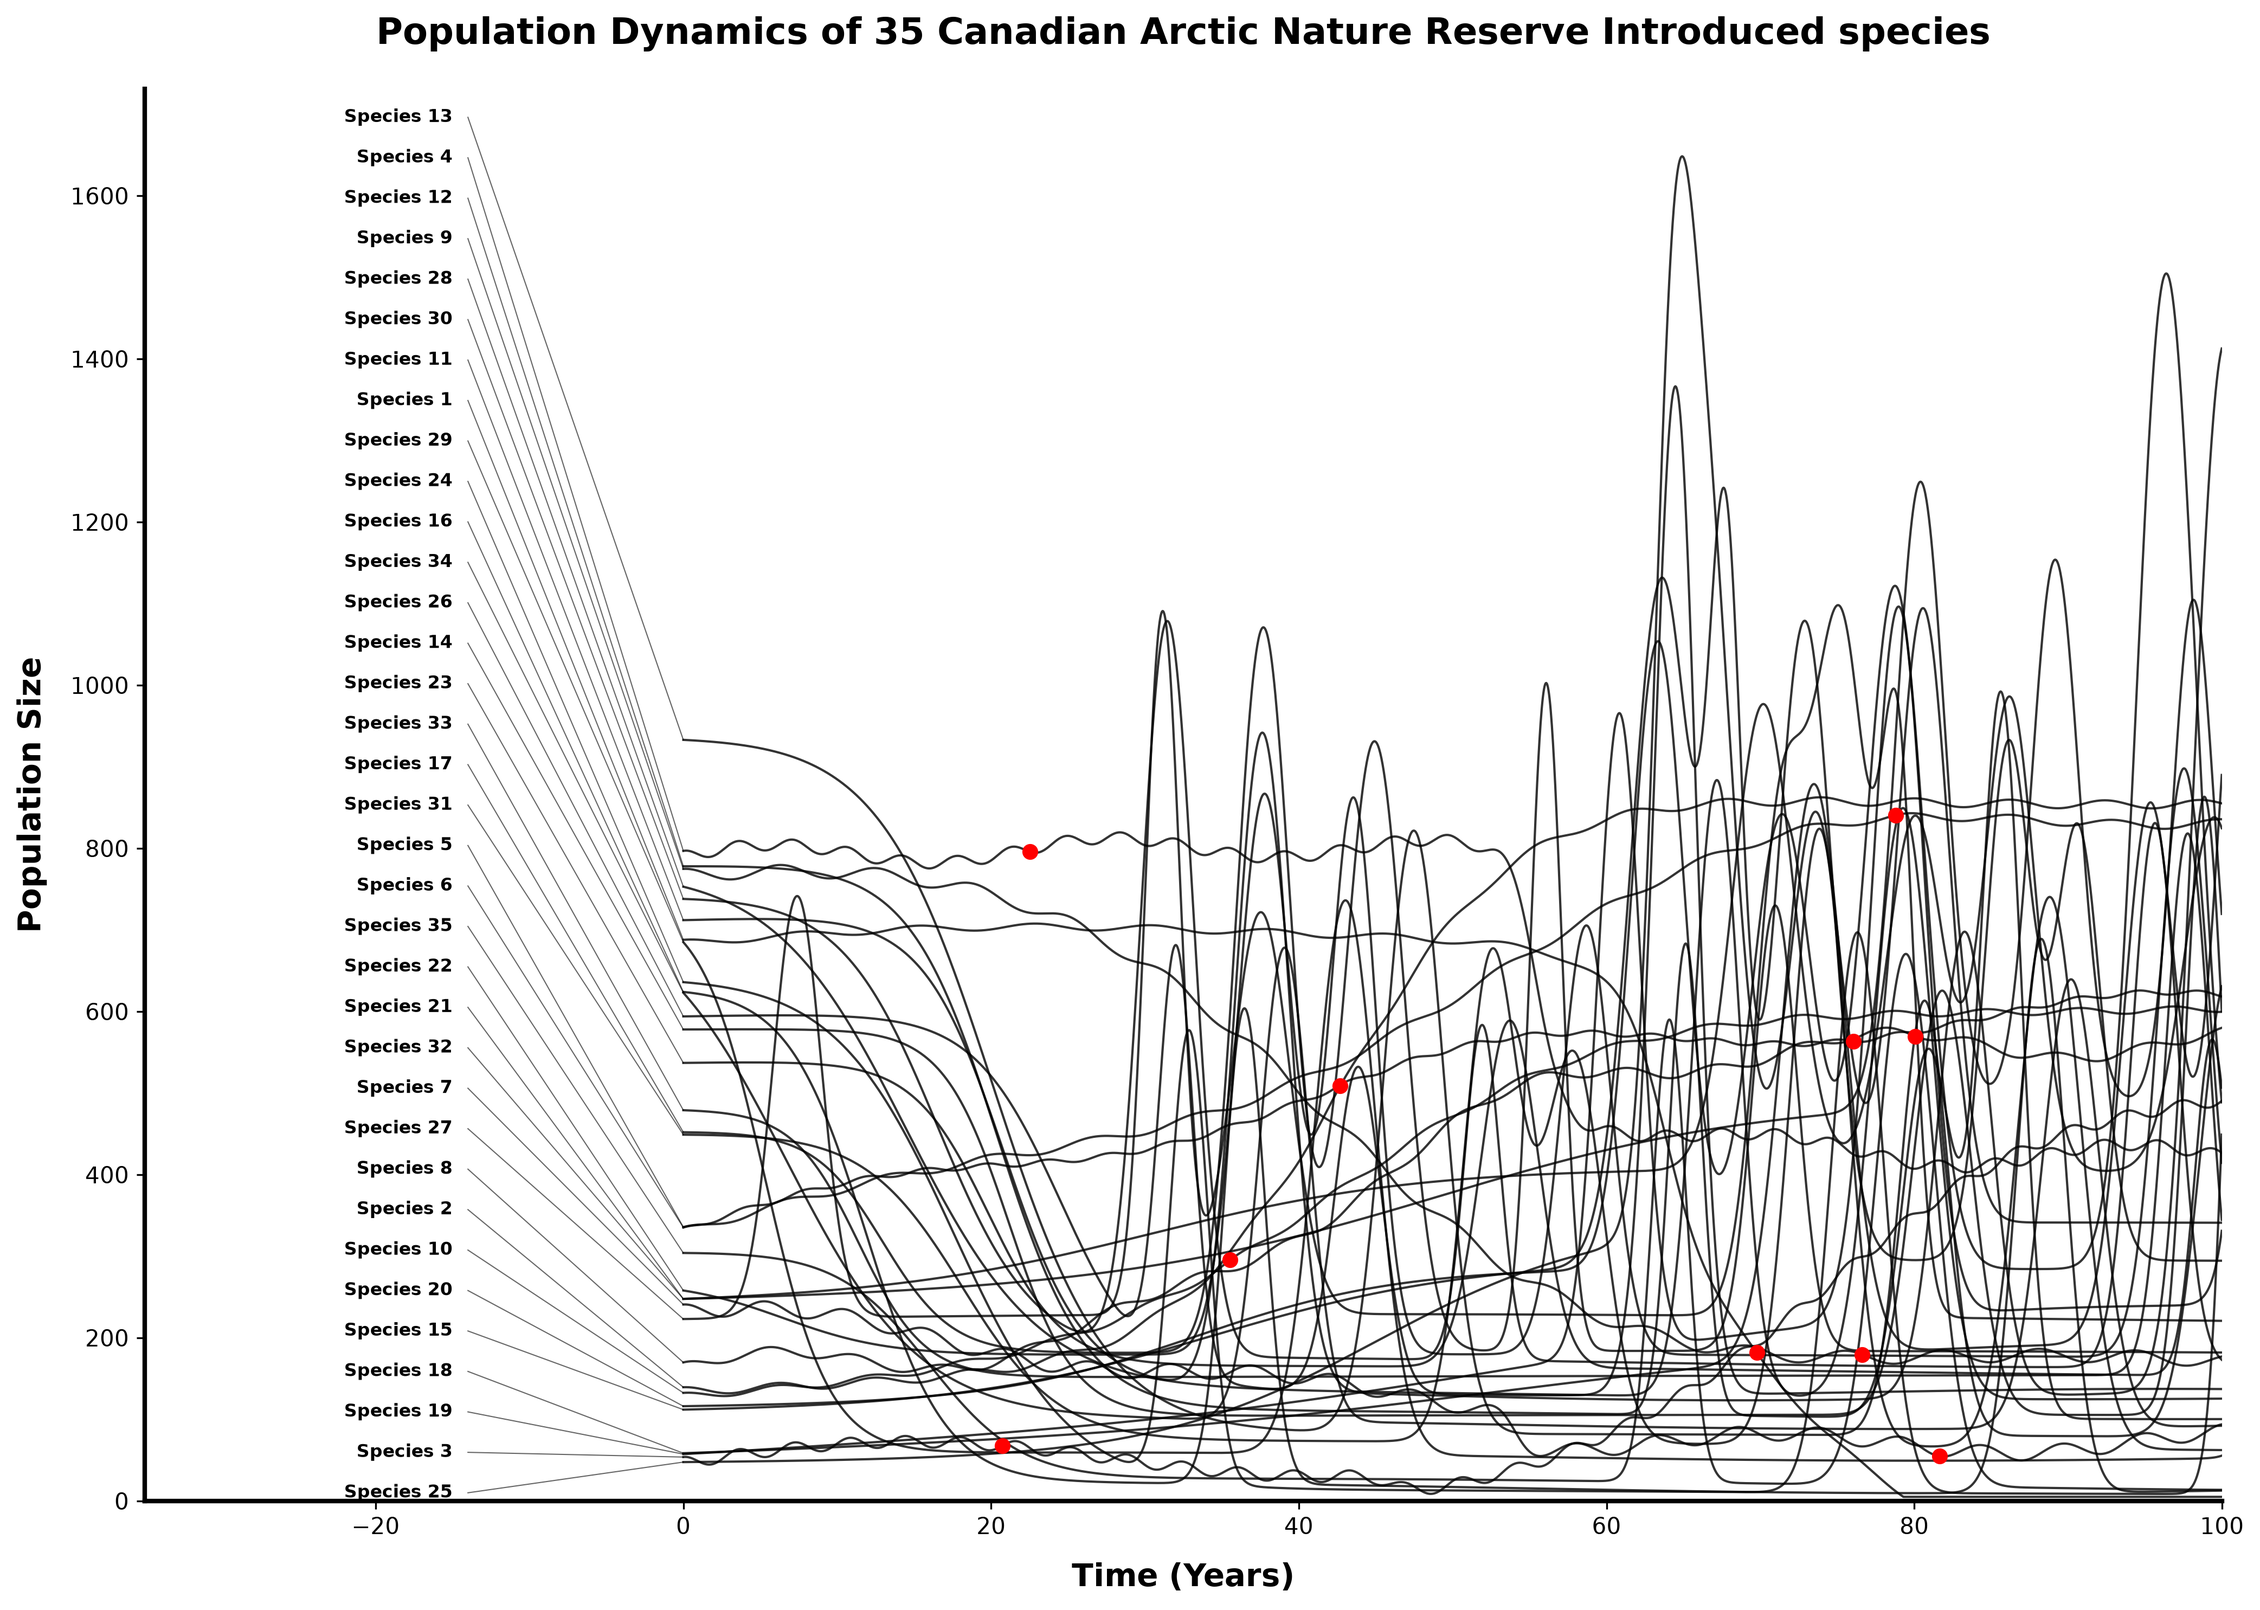
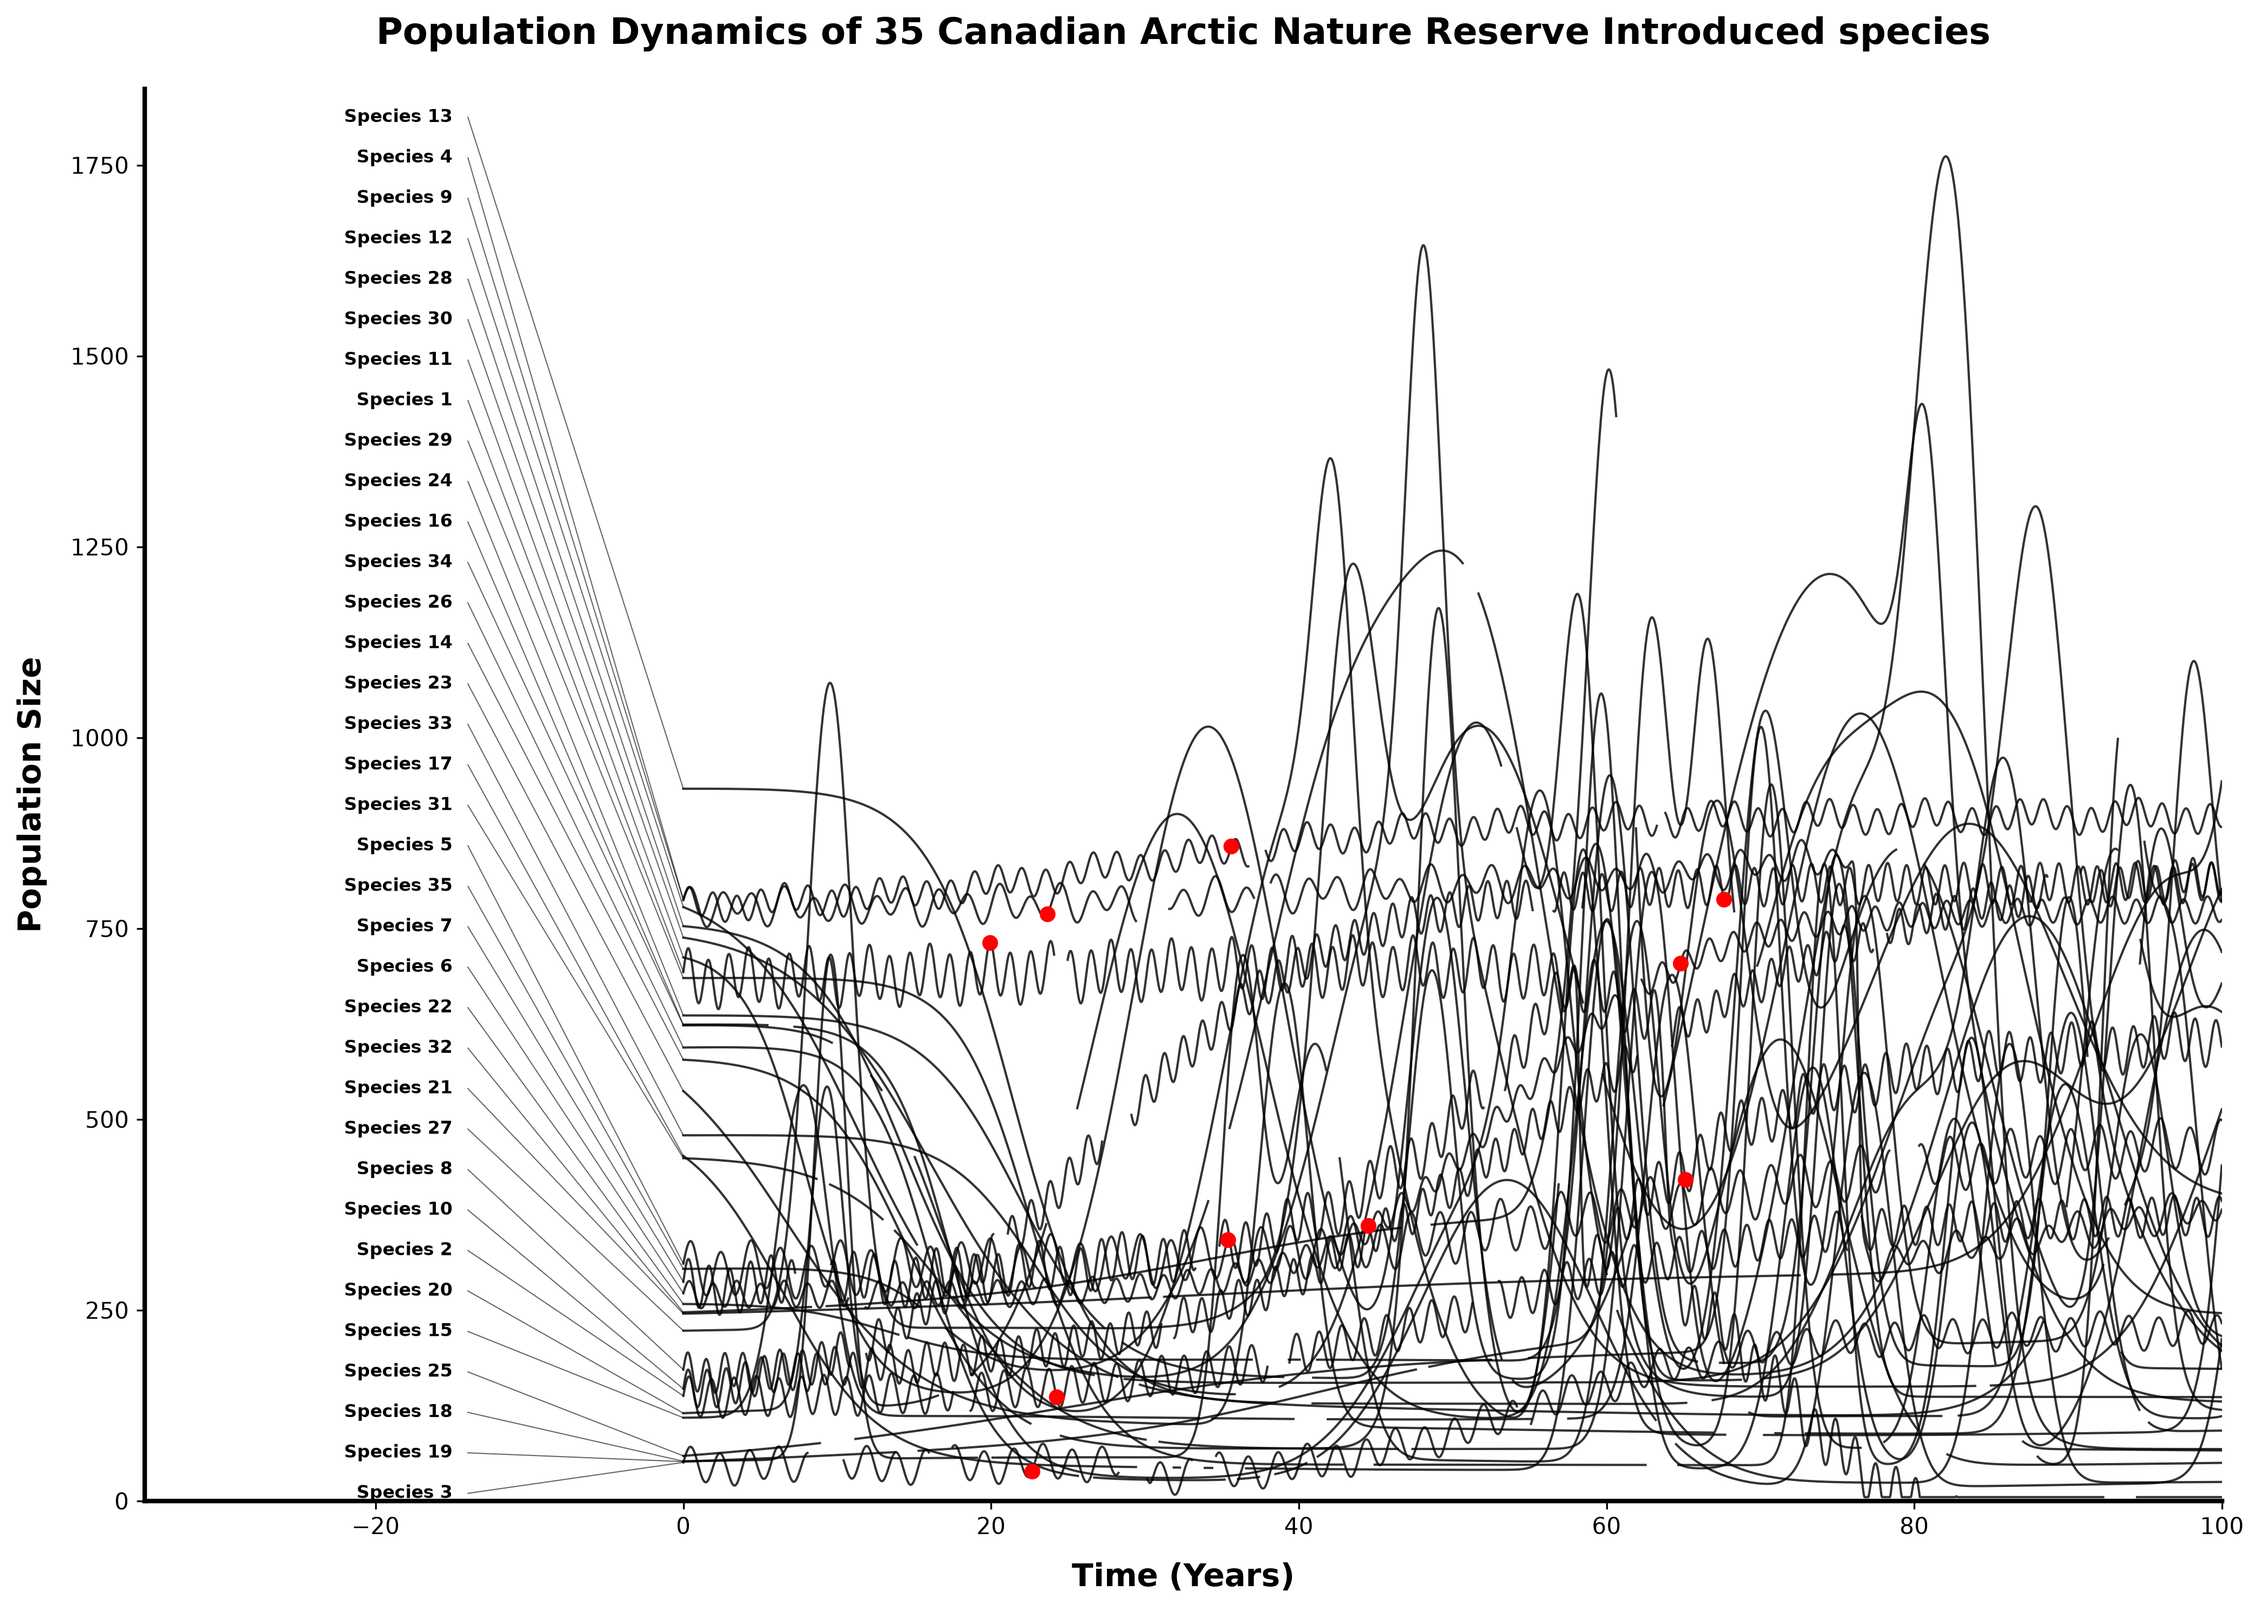
v6 even more issues

diff --git a/generate-graph.py b/generate-graph.py
@@ -20,6 +20,18 @@ all_target_starts = random.sample(range(20, 950), 35)
 k_starts = all_target_starts[:10]
 r_starts = all_target_starts[10:]
 
+
+def inject_missing_data(pop_array, time_array):
+    """Simulates missed ecological surveys by injecting np.nan gaps."""
+    num_gaps = np.random.randint(2, 6)
+    for _ in range(num_gaps):
+        gap_start = np.random.uniform(5, 95)
+        gap_len = np.random.uniform(0.5, 2.5)  # Gap of 0.5 to 2.5 years
+        gap_mask = (time_array >= gap_start) & (time_array <= gap_start + gap_len)
+        pop_array[gap_mask] = np.nan
+    return pop_array
+
+
 # ==========================================
 # POPULATION MATH (35 Species)
 # ==========================================
@@ -37,28 +49,28 @@ for i in range(10):
     # 1. Base logistic curve
     pop = start_pop + (end_pop - start_pop) / (1 + np.exp(-rate * (t - midpoint)))
 
-    # 2. Add severe crashes to roughly half the K-selected species
+    # 2. Add VERTICAL crashes to roughly half the K-selected species to trick derivative filters
     if random.random() > 0.5:
         crash_time = np.random.uniform(20, 80)
-        # Calculate the population exactly at the crash time to drop it proportionally
         crash_idx = int((crash_time / 110.0) * 3000)
         if crash_idx < 3000:
             current_level = pop[crash_idx]
             crash_depth = np.random.uniform(0.4, 0.7) * current_level
-            crash_steepness = np.random.uniform(0.5, 2.0)
+            # HARDENING: Massive steepness ensures the drop is nearly vertical (dy/dx > 5.0)
+            crash_steepness = np.random.uniform(5.0, 15.0)
 
-            # Apply the crash
             pop -= crash_depth / (1 + np.exp(-crash_steepness * (t - crash_time)))
 
-            # Apply a slow, agonizing recovery or stabilization to a new baseline
             recovery_rate = np.random.uniform(0.02, 0.08)
             pop += (crash_depth * np.random.uniform(0.3, 0.8)) / (1 + np.exp(-recovery_rate * (t - (crash_time + 15))))
 
-    # 3. Add complex, erratic wobble to break up the "nice slow curves"
-    pop += np.random.randint(10, 30) * np.sin(t * np.random.uniform(0.05, 0.3))  # Low freq wobble
-    pop += np.random.randint(2, 10) * np.cos(t * np.random.uniform(0.8, 2.0))  # High freq jitter
+    # 3. Add SHATTER Jitter: high frequency/amplitude seasonal wobble.
+    # Mathematically creates a local slope > 3.5 continuously, shattering the line in a slope filter.
+    pop += np.random.uniform(15, 35) * np.sin(t * np.random.uniform(3.0, 6.0))
+    pop += np.random.randint(2, 10) * np.cos(t * np.random.uniform(0.8, 2.0))
 
-    pop = np.clip(pop, 5, None)  # Prevent dropping below 0
+    pop = np.clip(pop, 5, None)
+    pop = inject_missing_data(pop, t)
     lines.append(pop)
 
 for i in range(25):
@@ -79,14 +91,13 @@ for i in range(25):
         spike_start = 30
     else:
         if random.random() > 0.5:
-            # NEW: The "Lag Phase" Trap (Fake K-selected)
-            # Slowly rise like a K-selected species for 40-60 years before going nuclear
+            # The "Lag Phase" Trap (Fake K-selected)
             fake_k_end = np.random.uniform(target_start + 50, target_start + 300)
             fake_mid = np.random.uniform(20, 50)
             fake_rate = np.random.uniform(0.05, 0.15)
 
             pop = target_start + (fake_k_end - target_start) / (1 + np.exp(-fake_rate * (t - fake_mid)))
-            spike_start = np.random.uniform(55, 75)  # Wait a long time to boom/bust
+            spike_start = np.random.uniform(55, 75)
         else:
             # Standard low starting baseline with an early boom
             base_pop = target_start
@@ -98,18 +109,24 @@ for i in range(25):
             pop += early_height * np.exp(-((t - early_spike) ** 2) / early_width)
             spike_start = 30
 
-    # Organic drift so baselines aren't flat
     pop += np.random.uniform(2, 8) * np.sin(t * np.random.uniform(0.01, 0.1))
 
-    # Add the exponential spikes AFTER their respective safe windows
+    # Add the exponential spikes
     num_spikes = np.random.randint(2, 6)
     for _ in range(num_spikes):
         spike_time = np.random.uniform(spike_start, 110)
         spike_height = np.random.randint(400, 900)
-        width = np.random.uniform(2, 8)
+
+        # HARDENING: 30% chance for a "Wide Hill" boom that stays below AI's slope threshold
+        if random.random() > 0.7:
+            width = np.random.uniform(30, 80)
+        else:
+            width = np.random.uniform(2, 8)
+
         pop += spike_height * np.exp(-((t - spike_time) ** 2) / width)
 
     pop = np.clip(pop, 5, None)
+    pop = inject_missing_data(pop, t)
     lines.append(pop)
 
 combined = list(zip(labels, lines))
@@ -117,7 +134,8 @@ random.shuffle(combined)
 labels, lines = zip(*combined)
 
 # Find the absolute highest point across all species to dynamically set the Y-axis limit
-max_pop_value = max([np.max(pop) for pop in lines])
+# We use np.nanmax because the arrays now contain NaNs
+max_pop_value = max([np.nanmax(pop) for pop in lines])
 y_limit = max(1100.0, max_pop_value * 1.05)
 
 # ==========================================
@@ -137,9 +155,13 @@ for pop in lines:
     plot_mask = t <= 100
     ax.plot(t[plot_mask], pop[plot_mask], color='black', linewidth=1.0, solid_joinstyle='round', alpha=0.8)
 
-start_vals = [pop[0] for pop in lines]
-sorted_indices = np.argsort(start_vals)
+# Get valid starting values (t=0) despite random initial nan gaps
+start_vals = []
+for pop in lines:
+    first_valid_idx = np.where(~np.isnan(pop))[0][0]
+    start_vals.append(pop[first_valid_idx])
 
+sorted_indices = np.argsort(start_vals)
 text_y_positions = np.linspace(10, y_limit * 0.98, len(lines))
 
 for rank, idx in enumerate(sorted_indices):
@@ -178,9 +200,10 @@ for i, pop in enumerate(lines):
     label = labels[i]
     if ground_truth["classifications"][label] == "K-selected":
         plot_mask = t <= 100
-        visible_indices = np.where(plot_mask)[0]
-        dot_idx = random.choice(visible_indices[500:-500])
-        ax.plot(t[dot_idx], pop[dot_idx], 'ro', markersize=6, zorder=5)
+        visible_indices = np.where(plot_mask & ~np.isnan(pop))[0]
+        if len(visible_indices) > 0:
+            dot_idx = random.choice(visible_indices[500:-500])
+            ax.plot(t[dot_idx], pop[dot_idx], 'ro', markersize=6, zorder=5)
 
 plt.savefig("population_dynamics_annotated.png", dpi=300, bbox_inches='tight')
 print("Saved annotated visual to population_dynamics_annotated.png")
